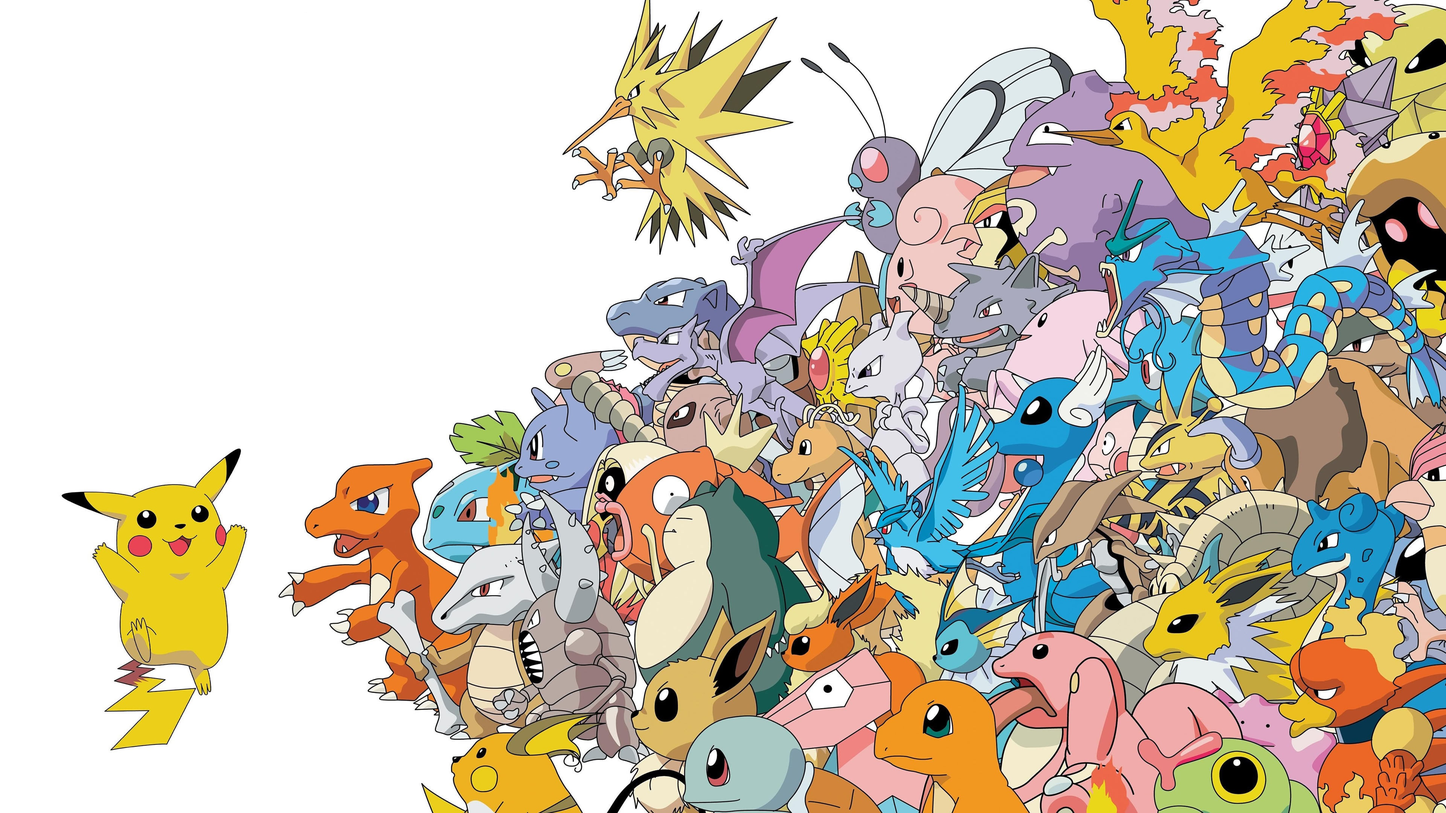
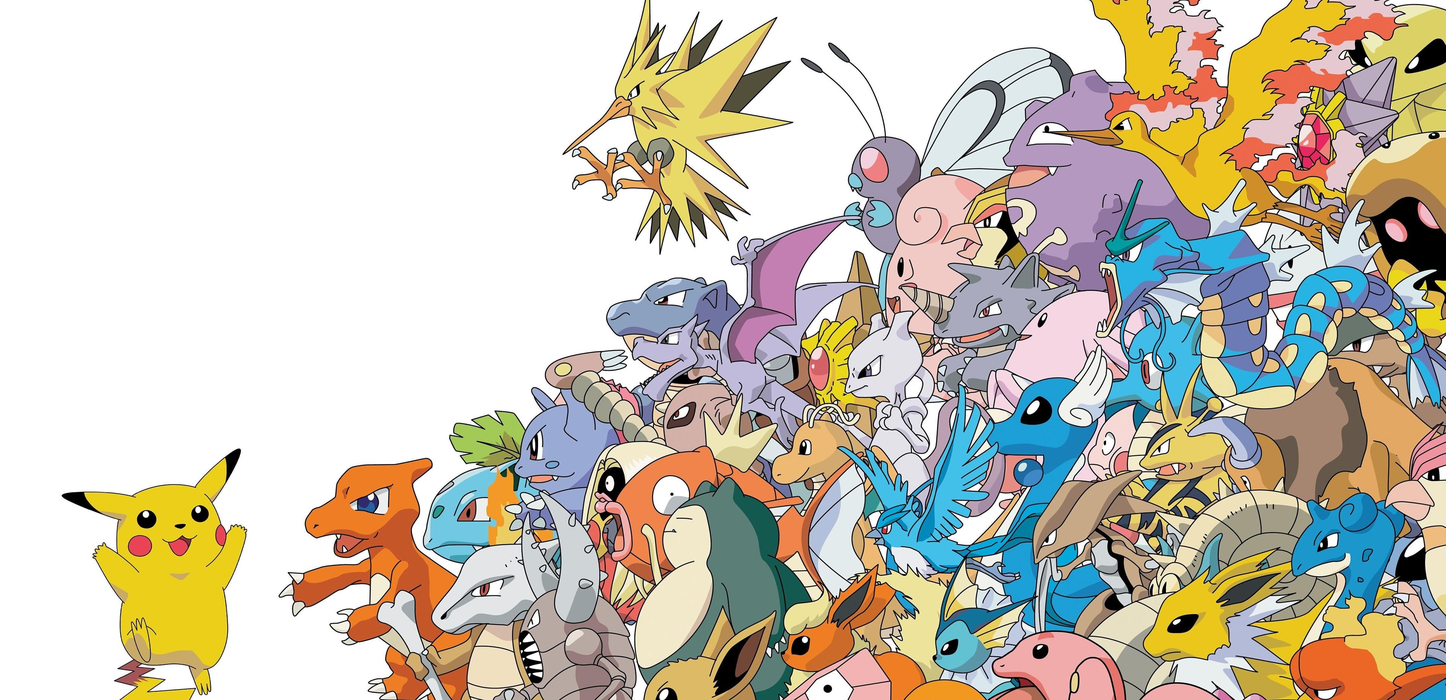
_

diff --git a/hw/2/Reservation.js b/hw/2/Reservation.js
@@ -1,0 +1,145 @@
+const pokeballs = []
+const selected = []
+const list = document.getElementById("pokeball")
+
+// create 50 random numbers
+function make_random(){
+    for(let i =0; i<50; ++i){
+        // 0~7 => ball
+        // 8~9 => monster
+        // 10 => selected ball
+        rand = Math.floor(Math.random() * 10); // 0~9 rand
+        pokeballs.push(rand)
+    }
+}
+
+// make 50 child with random numbers
+function make_child(){
+    for(let i=0; i<50; ++i){
+
+        // ball
+        if(pokeballs[i]>=0 && pokeballs[i]<=7){
+            let pokeball_a = document.createElement("a");
+            let pokeball = document.createElement("img")
+            pokeball.src = "res/pokeball.png"
+            pokeball.style.width = "70px"
+            pokeball.style.height = "70px"
+            pokeball.style.marginRight = "20px"
+
+            //add hover
+            pokeball.onmouseover = function(){
+                this.style.backgroundColor = "rgb(0,0,0,0.5)"
+                this.style.borderRadius = "25px"
+            }
+            
+            pokeball.onmouseout = function(){
+                this.style.backgroundColor = "transparent"
+            }
+
+            pokeball_a.addEventListener("click", function tmp () {
+                select_ball(i)
+                this.removeEventListener("click",tmp)
+            });
+            
+            pokeball_a.appendChild(pokeball)
+
+            list.appendChild(pokeball_a)
+        } 
+        // monster
+        else if(pokeballs[i]>=8 && pokeballs[i]<=9){
+            let pokeball_a = document.createElement("a");
+            let pokeball = document.createElement("img")
+            pokeball.src = "res/pokemon.png"
+            pokeball.style.width = "70px"
+            pokeball.style.height = "70px"
+            pokeball.style.marginRight = "20px"
+
+            //add hover
+            pokeball.onmouseover = function(){
+                this.style.backgroundColor = "rgb(0,0,0,0.5)"
+                this.style.borderRadius = "25px"
+            }
+            pokeball.onmouseout = function(){
+                this.style.backgroundColor = "transparent"
+            }
+
+            pokeball_a.addEventListener("click", () => {
+                select_monster()
+            });
+            pokeball_a.appendChild(pokeball)
+
+            list.appendChild(pokeball_a)
+        }
+    }
+}
+
+
+// when user choosed ball, this function opt.
+function select_ball(i){
+
+    // Gotcha를 통해서 포켓몬으로 이미 변한 경우, 이 함수를 통과하지 못하도록 예외처리.
+    if(pokeballs[i]>=8 && pokeballs[i]<=9) return
+    // alert("hihi")
+    selected.push(i)
+    list.childNodes[i].childNodes[0].style.filter = "brightness(50%)"
+    
+    list.childNodes[i].addEventListener("click", function tmp(){
+        select_selectedBall(i)
+        this.removeEventListener("click",tmp)
+    });
+}
+
+// when user choosed monster, this function opt.
+function select_monster(){
+    alert("모부기 : Choose the ball!")
+}
+
+// when user choosed selected_ball, this function opt.
+function select_selectedBall(i){
+    list.childNodes[i].childNodes[0].style.filter = "brightness(100%)"
+    list.childNodes[i].addEventListener("click", function tmp(){
+        select_ball(i)
+        this.removeEventListener("click",tmp)
+    });
+    const del_index = selected.indexOf(i)
+    if(del_index > -1){
+        selected.splice(del_index,1)
+    }
+}
+
+// when user choosed Gotcha! button, this function opt.
+function awake_monster(){
+    const size = selected.length
+    selected.sort(function(a,b){
+        return a-b;
+    })
+    let result = "You have opened the "
+    for(let i=0; i<size; ++i){
+        result += selected[i]+1
+        if(i!=size-1){
+            result += ", "
+        }
+    }
+    result += " ball(s)."
+
+    alert(result)
+    // alert(size)
+    for(let i =0; i<size ; ++i){
+        const index = selected.pop()
+        list.childNodes[index].childNodes[0].src = "res/pokemon.png"
+        list.childNodes[index].childNodes[0].style.filter = "brightness(100%)"
+        list.childNodes[index].addEventListener("click", () => {
+            select_monster()
+        });
+        pokeballs[index] = 8
+    }
+}
+
+function logOut(){
+    window.location.href = "Login.html"
+}
+
+
+// start js
+make_random()
+make_child()

diff --git a/hw/2/Reservation.css b/hw/2/Reservation.css
@@ -1,52 +1,53 @@
 #banner{
+    position: absolute;
+    top: 0px;
     left: 0px;
     right: 0px;
     display: block;
-    width: 100%;
+    opacity: 70%;
 }
 
-header{
+nav{
     position: absolute;
-    left: 0px;
-    width: 100%;
-    z-index: 2;
-    top: 0px;
-    height: 100px;
-    background-color: rgb(0,0,255,0.5);
+    z-index: 1;
+    background-color: rgb(0,0,0,0.5);
+    height: 150px;
 }
+
 
 
 
 #head_left{
     float: left;
     position: relative;
-    top: 25px;
+    top: 5px;
     left: 30px;
 }
 #head_right{
     position: relative;
-    top: 30px;
+    top: 5px;
     right: 60px;
 }
 
 #head_right a{
     margin-right: 30px;
+    font-weight: bold;
 }
 
-header p, header a{
+nav p, nav a{
     opacity: 100%;
     z-index: 2;
-    color : black;
     display: inline;
-    font-weight: bold;
-    font-size: 30px;
+    font-size: 20px;
 }
-
 
 
 #logOutButton{
     position: relative;
     top: -7px;
+    font-weight: bold;
+    font-size: 20px;
+    font-family: 'Franklin Gothic Medium', 'Arial Narrow', Arial, sans-serif;
 }
 
 #span_admin{
@@ -54,9 +55,94 @@ header p, header a{
 }
 
 h1{
-    z-index: 2;
+    z-index: 3;
+    text-align: center;
+    position: relative;
     display: block;
-    position: absolute;
-    top: 300px;
+    font-size: 100px !important;
+    opacity: 90%;
+    font-family:Georgia, 'Times New Roman', Times, serif;
+    padding-top: 120px;
+    padding-bottom: 400px;
 }
 
+
+main{
+    display: block;
+    margin: auto;
+    position: relative;
+}
+
+#grass{
+    z-index: 2;
+    width: 1000px;
+    height: 500px;
+    display: block;
+    margin: auto;
+    position: absolute;
+    margin-left: auto;
+    margin-right: auto;
+    left: 0;
+    right: 0;
+    text-align: center;
+}
+
+ul{
+    z-index: 3;
+    width: 950px;
+    display: block;
+    margin: auto;
+    position: relative;
+    margin-right: auto;
+    left: 0;
+    right: 0;
+    text-align: center;
+    padding-right: 10px;
+    padding-top: 80px;
+    padding-bottom: 60px;
+}
+
+
+
+#helper img, #helper p, #helper div{
+    display: inline-block;
+}
+
+#helper{
+    padding-left: 260px;
+}
+#helper img{
+    width: 25px;
+    height: 25px;
+}
+
+#helper div{
+    margin-right: 10px;
+}
+
+#selected{
+    filter :brightness(50%)
+}
+
+#gotcha{
+    display: block;
+    margin: auto;
+    width: 300px;
+    height: 50px;
+    font-size: large;
+}
+
+footer p{
+    margin-top: 80px;
+    background-color: rgb(0,0,0,0.5);
+    height: 100px;
+    padding-top: 40px;
+    display: block;
+    text-align: center;
+    margin-bottom: 0px;
+}
+
+footer{
+    padding-left: 0px !important;
+    padding-right: 0px !important;
+}

diff --git a/hw/2/Reservation.html b/hw/2/Reservation.html
@@ -8,18 +8,45 @@
     <title>Document</title>
 </head>
 <body>
-    <header class = "container-fluid">
+    <nav class = "navbar">
         <p id = "head_left">You are logged in as <span id="span_admin">admin</span></p>
         <div id ="head_right" class = "text-right">
             <a href="#">Pokedex</a>
             <a href="#">Shop</a>
-            <Button id="logOutButton" class="btn btn-danger">Log out</Button>
+            <Button id="logOutButton" class="btn btn-danger" onclick="logOut()">Log out</Button>
         </div>
-    </header>
-    
-    <div id = "Welcome">
-        <img id = "banner" src="res/osw_wallpaper.jpg" alt="banner image">
-        <h1 class = "text-center">Welcome to PokeWorld!</h1>
-    </div>
+    </nav>
+    <img id = "banner" class = "img-fluid" src="res/osw_wallpaper.jpg" alt="banner image">
+    <h1 class = "text-justify text-center">Welcome to Pokemon World!</h1>
+
+
+
+    <main calss = "container-fluid">
+        <img id = "grass" class ="img-fluid" src="res/grass.jpg" alt="grass">
+        <ul id = "pokeball"></ul>
+        <div id = "helper">
+            <div>
+                <img src="res/pokeball.png" alt="pokeball">
+                <p>Available ball</p>
+            </div>
+            <div>
+                <img id = "selected" src="res/pokeball.png" alt="pokeball">
+                <p>Selected Ball</p>
+            </div><div>
+                <img src="res/pokemon.png" alt="pokeball">
+                <p>Result</p>
+            </div>
+        </div>
+        <button id = "gotcha" class = "btn btn-primary" onclick="awake_monster()">Gotcha!</button>
+    </main>
+
+    <footer class = "container-fluid">
+        <p>
+            Web Development HomeWork 2
+        </p>
+    </footer>
+
+
+    <script src = "Reservation.js"></script>
 </body>
 </html>

diff --git a/hw/2/Login.html b/hw/2/Login.html
@@ -9,11 +9,19 @@
     <title>Document</title>
 </head>
 <body>
-    <img id ="background" src="res/osw2_background.jpg" alt="background image">
-    <img id = "title" src="res/osw2_title.png" alt = "title">
-    <input id = "ID" type="text" placeholder="ID">
-    <input id = "PW" type="password" placeholder="Password">
-    <button id = "LoginButton" onclick= "check_info()">Sign In</button>
+    <img id ="background" src="res/osw2_background.jpg" alt="background image" class = "img-fluid">
+    <img id = "title" src="res/osw2_title.png" alt = "title" class = "img-fluid">
+
+    <form>
+        <div class = "form-group">
+            <input id = "ID" type="text" placeholder="ID">
+            <input id = "PW" type="password" placeholder="Password">
+        </div>
+    </form>
+
+    <button class = "btn" id = "LoginButton" onclick= "check_info()">Sign In</button>
+
+    
 
     <script src = "Login.js"></script>
 </body>
